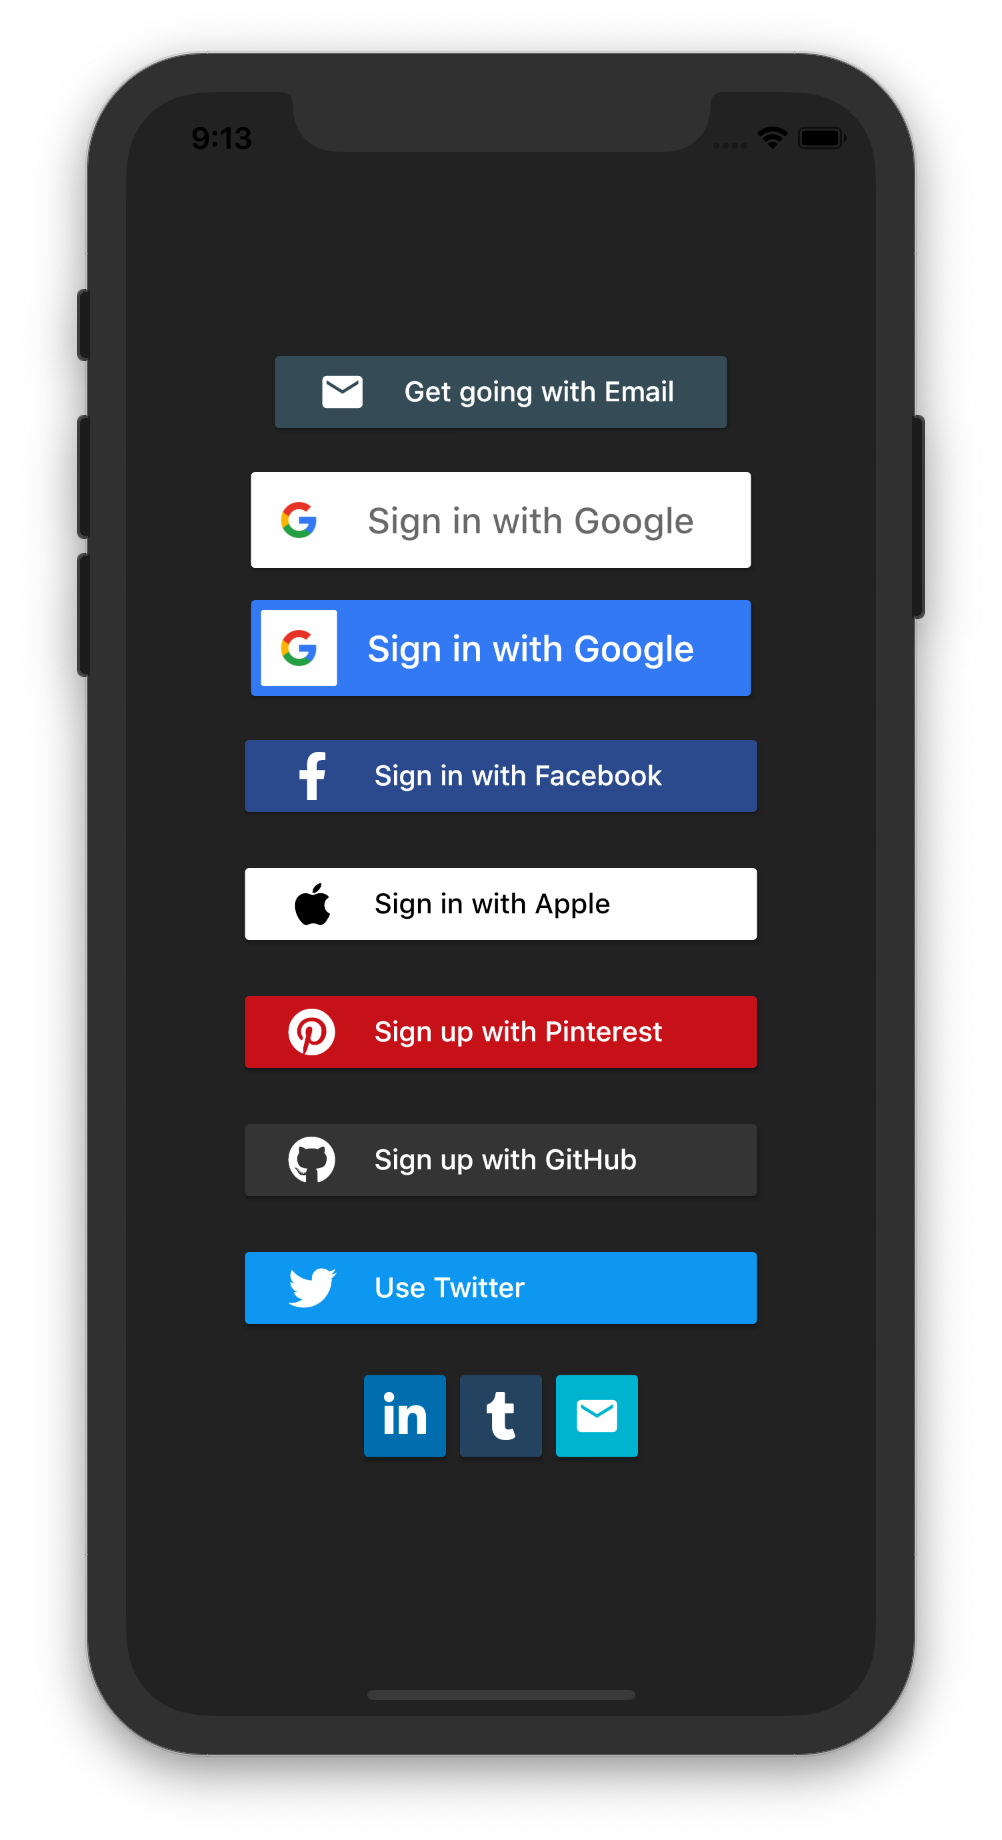
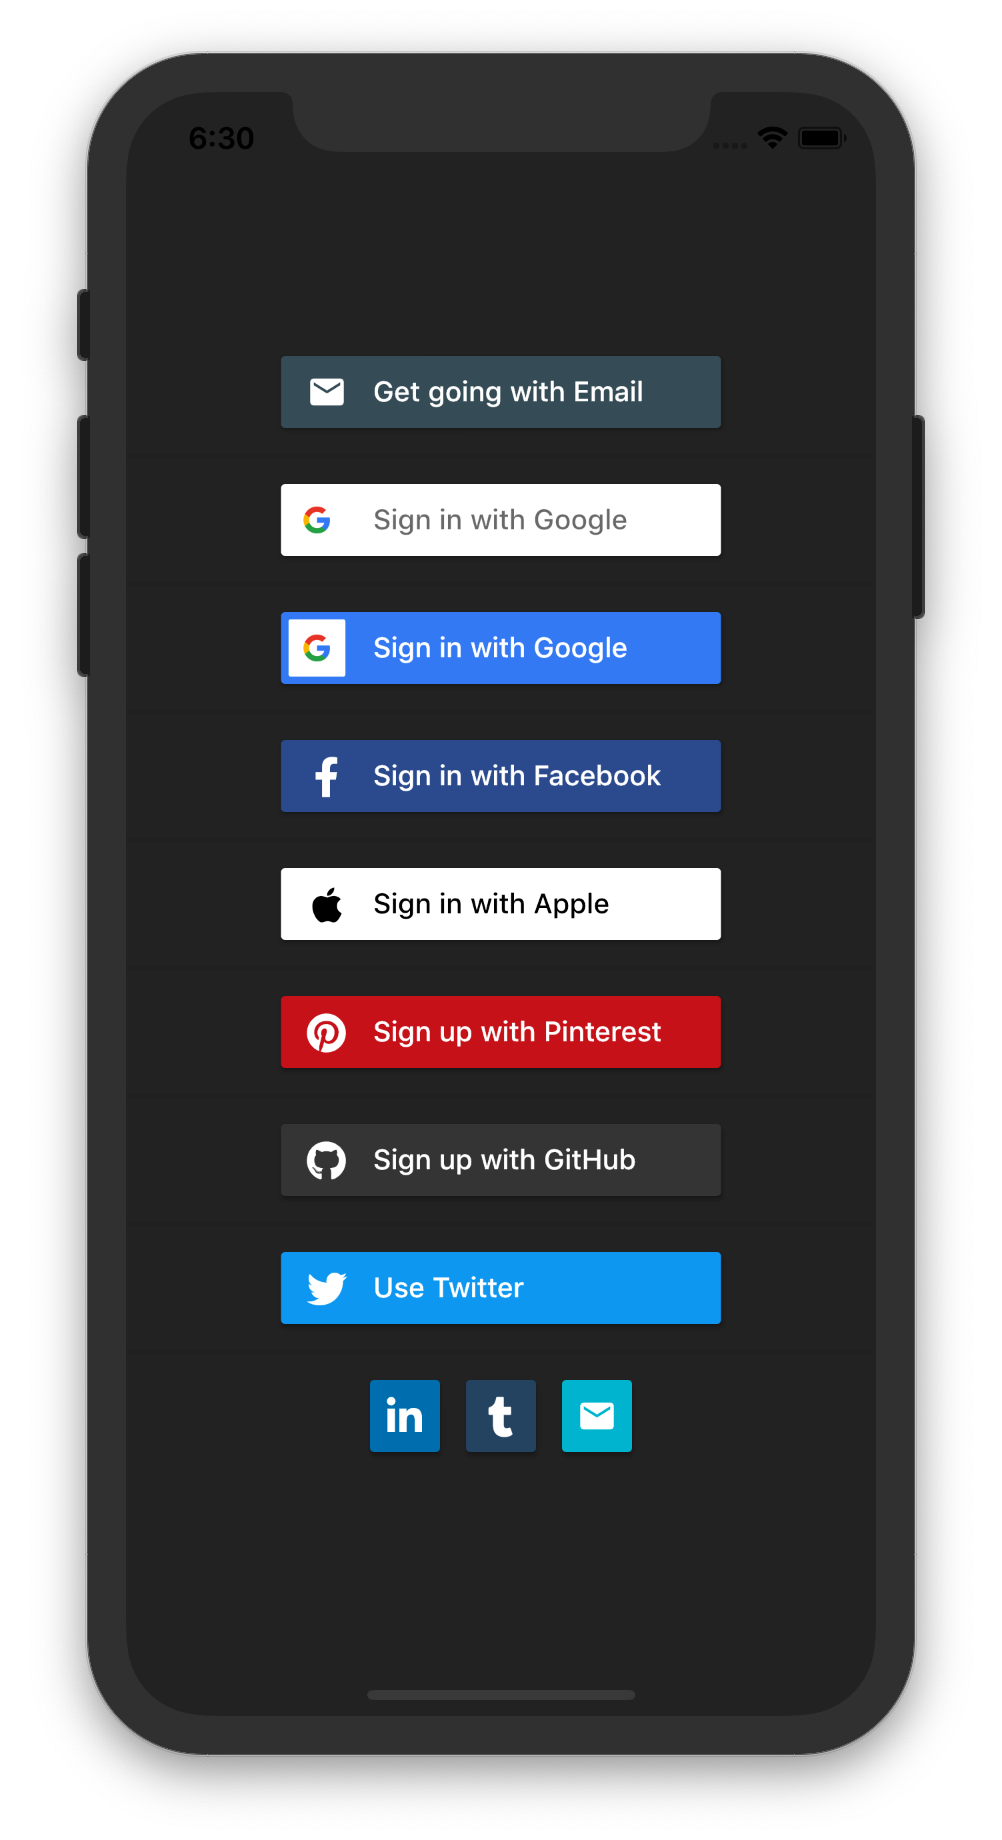
1.0.0 release

diff --git a/example/lib/main.dart b/example/lib/main.dart
@@ -11,134 +11,123 @@ class MyApp extends StatelessWidget {
     return MaterialApp(
       title: 'Flutter Demo',
       theme: ThemeData.light(),
-      home: SignInPage(),
+      home: Scaffold(
+        backgroundColor: Color.fromRGBO(50, 50, 50, 1.0),
+        body: SignInPage(),
+      ),
       debugShowCheckedModeBanner: false,
     );
   }
 }
 
 class SignInPage extends StatelessWidget {
-  /// Show a simple "___ Button Pressed" dialog
+  /// Show a simple "___ Button Pressed" indicator
   void _showButtonPressDialog(BuildContext context, String provider) {
-    showDialog(
-      context: context,
-      builder: (BuildContext context) {
-        return new AlertDialog(
-          title: Text('$provider button pressed'),
-          actions: <Widget>[
-            FlatButton(
-              child: Text('Okay'),
-              onPressed: () {
-                Navigator.pop(context);
-              },
-            ),
-          ],
-        );
-      },
-    );
+    Scaffold.of(context).showSnackBar(SnackBar(
+      content: Text('$provider Button Pressed!'),
+      backgroundColor: Colors.black26,
+      duration: Duration(milliseconds: 400),
+    ));
   }
 
   /// Normally the signin buttons should be contained in the SignInPage
   @override
   Widget build(BuildContext context) {
-    return Scaffold(
-      backgroundColor: Color.fromRGBO(50, 50, 50, 1.0),
-      body: Center(
-        child: Column(
-          mainAxisAlignment: MainAxisAlignment.center,
-          children: <Widget>[
-            SignInButtonBuilder(
-              text: 'Get going with Email',
-              icon: Icons.email,
-              onPressed: () {
-                _showButtonPressDialog(context, 'Email');
-              },
-              backgroundColor: Colors.blueGrey[700],
-              width: 220.0,
-            ),
-            Divider(),
-            SignInButton(
-              Buttons.Google,
-              onPressed: () {
-                _showButtonPressDialog(context, 'Google');
-              },
-            ),
-            Divider(),
-            SignInButton(
-              Buttons.GoogleDark,
-              onPressed: () {
-                _showButtonPressDialog(context, 'Google (dark)');
-              },
-            ),
-            Divider(),
-            SignInButton(
-              Buttons.Facebook,
-              onPressed: () {
-                _showButtonPressDialog(context, 'Facebook');
-              },
-            ),
-            Divider(),
-            SignInButton(
-              Buttons.Apple,
-              onPressed: () {
-                _showButtonPressDialog(context, 'Apple');
-              },
-            ),
-            Divider(),
-            SignInButton(
-              Buttons.Pinterest,
-              text: "Sign up with Pinterest",
-              onPressed: () {
-                _showButtonPressDialog(context, 'Pinterest');
-              },
-            ),
-            Divider(),
-            SignInButton(
-              Buttons.GitHub,
-              text: "Sign up with GitHub",
-              onPressed: () {
-                _showButtonPressDialog(context, 'Github');
-              },
-            ),
-            Divider(),
-            SignInButton(
-              Buttons.Twitter,
-              text: "Use Twitter",
-              onPressed: () {
-                _showButtonPressDialog(context, 'Twitter');
-              },
-            ),
-            Divider(),
-            Row(
-              mainAxisAlignment: MainAxisAlignment.center,
-              children: <Widget>[
-                SignInButton(
-                  Buttons.LinkedIn,
-                  mini: true,
-                  onPressed: () {
-                    _showButtonPressDialog(context, 'LinkedIn (mini)');
-                  },
-                ),
-                SignInButton(
-                  Buttons.Tumblr,
-                  mini: true,
-                  onPressed: () {
-                    _showButtonPressDialog(context, 'Tumblr (mini)');
-                  },
-                ),
-                SignInButtonBuilder(
-                  icon: Icons.email,
-                  text: "Ignored for mini button",
-                  mini: true,
-                  onPressed: () {
-                    _showButtonPressDialog(context, 'Email (mini)');
-                  },
-                  backgroundColor: Colors.cyan,
-                ),
-              ],
-            ),
-          ],
-        ),
+    return Center(
+      child: Column(
+        mainAxisAlignment: MainAxisAlignment.center,
+        children: <Widget>[
+          SignInButtonBuilder(
+            text: 'Get going with Email',
+            icon: Icons.email,
+            onPressed: () {
+              _showButtonPressDialog(context, 'Email');
+            },
+            backgroundColor: Colors.blueGrey[700],
+            width: 220.0,
+          ),
+          Divider(),
+          SignInButton(
+            Buttons.Google,
+            onPressed: () {
+              _showButtonPressDialog(context, 'Google');
+            },
+          ),
+          Divider(),
+          SignInButton(
+            Buttons.GoogleDark,
+            onPressed: () {
+              _showButtonPressDialog(context, 'Google (dark)');
+            },
+          ),
+          Divider(),
+          SignInButton(
+            Buttons.Facebook,
+            onPressed: () {
+              _showButtonPressDialog(context, 'Facebook');
+            },
+          ),
+          Divider(),
+          SignInButton(
+            Buttons.Apple,
+            onPressed: () {
+              _showButtonPressDialog(context, 'Apple');
+            },
+          ),
+          Divider(),
+          SignInButton(
+            Buttons.Pinterest,
+            text: "Sign up with Pinterest",
+            onPressed: () {
+              _showButtonPressDialog(context, 'Pinterest');
+            },
+          ),
+          Divider(),
+          SignInButton(
+            Buttons.GitHub,
+            text: "Sign up with GitHub",
+            onPressed: () {
+              _showButtonPressDialog(context, 'Github');
+            },
+          ),
+          Divider(),
+          SignInButton(
+            Buttons.Twitter,
+            text: "Use Twitter",
+            onPressed: () {
+              _showButtonPressDialog(context, 'Twitter');
+            },
+          ),
+          Divider(),
+          Row(
+            mainAxisAlignment: MainAxisAlignment.center,
+            children: <Widget>[
+              SignInButton(
+                Buttons.LinkedIn,
+                mini: true,
+                onPressed: () {
+                  _showButtonPressDialog(context, 'LinkedIn (mini)');
+                },
+              ),
+              SignInButton(
+                Buttons.Tumblr,
+                mini: true,
+                onPressed: () {
+                  _showButtonPressDialog(context, 'Tumblr (mini)');
+                },
+              ),
+              SignInButtonBuilder(
+                icon: Icons.email,
+                text: "Ignored for mini button",
+                mini: true,
+                onPressed: () {
+                  _showButtonPressDialog(context, 'Email (mini)');
+                },
+                backgroundColor: Colors.cyan,
+              ),
+            ],
+          ),
+        ],
       ),
     );
   }

diff --git a/lib/button_view.dart b/lib/button_view.dart
@@ -34,14 +34,14 @@ class SignInButton extends StatelessWidget {
     this.button, {
     @required this.onPressed,
     this.mini = false,
-    this.padding = const EdgeInsets.all(3.0),
+    this.padding = const EdgeInsets.all(0),
     this.shape,
     this.text,
   })  : assert(button != null),
         assert(onPressed != null),
-        assert(mini != true
-            || !(button == Buttons.Google 
-            || button == Buttons.GoogleDark),
+        assert(
+            mini != true ||
+                !(button == Buttons.Google || button == Buttons.GoogleDark),
             "Google button does not support mini mode");
 
   /// The build funtion is used to build the widget which will switch to
@@ -54,14 +54,13 @@ class SignInButton extends StatelessWidget {
         return SignInButtonBuilder(
           key: ValueKey("Google"),
           text: text ?? 'Sign in with Google',
-          fontSize: 18.0,
           textColor: button == Buttons.Google
               ? Color.fromRGBO(0, 0, 0, 0.54)
               : Color(0xFFFFFFFF),
           image: Container(
             margin: EdgeInsets.fromLTRB(0.0, 0.0, 10.0, 0.0),
             child: ClipRRect(
-              borderRadius: new BorderRadius.circular(8.0),
+              borderRadius: BorderRadius.circular(8.0),
               child: Image(
                 image: AssetImage(
                   button == Buttons.Google
@@ -69,18 +68,17 @@ class SignInButton extends StatelessWidget {
                       : 'assets/logos/google_dark.png',
                   package: 'flutter_signin_button',
                 ),
-                height: 48.0,
-                width: 48.0,
+                height: 36.0,
               ),
             ),
           ),
           backgroundColor:
               button == Buttons.Google ? Color(0xFFFFFFFF) : Color(0xFF4285F4),
           onPressed: onPressed,
-          padding: EdgeInsets.all(0),
+          padding: padding,
           innerPadding: EdgeInsets.all(0),
           shape: shape,
-          height: mini ? 48.0 : 36.0,
+          height: 36.0,
         );
       case Buttons.Facebook:
         return SignInButtonBuilder(

diff --git a/lib/button_builder.dart b/lib/button_builder.dart
@@ -82,7 +82,7 @@ class SignInButtonBuilder extends StatelessWidget {
       minWidth: mini ? width ?? 35.0 : null,
       height: height,
       elevation: elevation,
-      padding: padding ?? EdgeInsets.all(3),
+      padding: padding ?? EdgeInsets.all(0),
       color: backgroundColor,
       onPressed: onPressed,
       splashColor: splashColor,
@@ -102,7 +102,7 @@ class SignInButtonBuilder extends StatelessWidget {
     }
     return Container(
       constraints: BoxConstraints(
-        maxWidth: width ?? MediaQuery.of(context).size.width / 1.5,
+        maxWidth: width ?? 220,
       ),
       child: Center(
         child: Row(
@@ -111,7 +111,7 @@ class SignInButtonBuilder extends StatelessWidget {
             Padding(
               padding: innerPadding ??
                   EdgeInsets.symmetric(
-                    horizontal: MediaQuery.of(context).size.width / 20,
+                    horizontal: 13,
                   ),
               child: _getIconOrImage(),
             ),
@@ -137,6 +137,7 @@ class SignInButtonBuilder extends StatelessWidget {
     }
     return Icon(
       icon,
+      size: 20,
       color: this.iconColor,
     );
   }

diff --git a/CHANGELOG.md b/CHANGELOG.md
@@ -85,3 +85,11 @@
 ## 0.5.2
 
 - Fix readme image
+
+## 1.0.0
+
+- NOT BACKWARD COMPATIBLE
+- change width restriction to pixel unit
+- consistent hight of default signin buttons
+- change default icon size
+- change demo action to snack bar

diff --git a/README.md b/README.md
@@ -9,7 +9,7 @@ Add to pubspec.yaml.
 ```yaml
 dependencies:
   ...
-  flutter_signin_button: ^0.5.2
+  flutter_signin_button: ^1.0.0
 ```
 
 ## Usage Example
